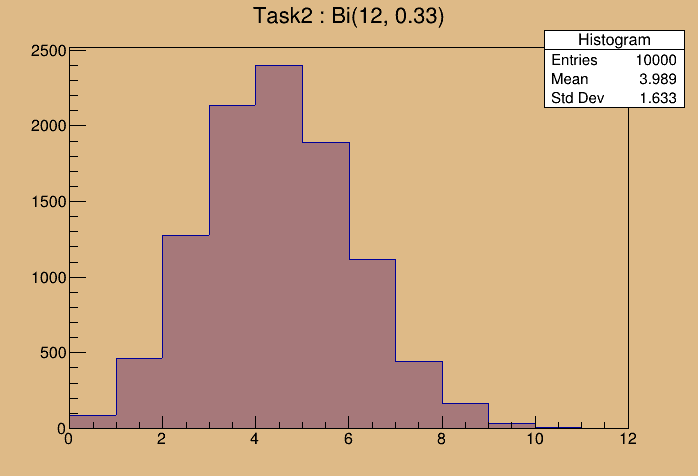
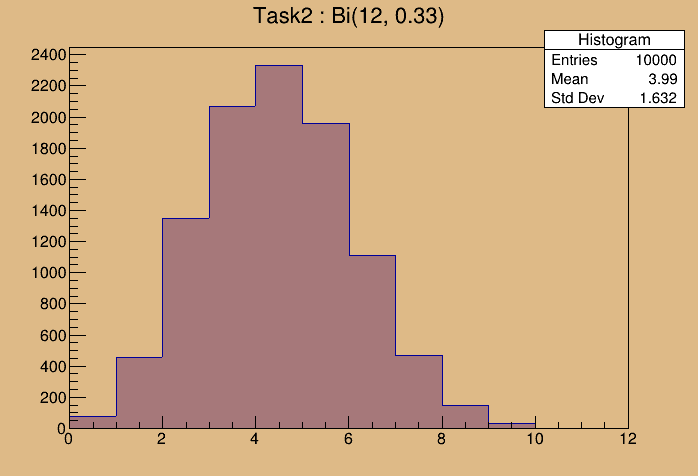
Add hw6(Tasks 3,5,6)

diff --git a/main.py b/main.py
@@ -1,42 +1,59 @@
 """Отвечает за запуск примеров заданий."""
 from sys import argv
 
-from hw5 import Task1, Task2, Task3, Task4, Task5, Task7, Task8
+import hw5
+import hw6
 
 if argv[1] == '5':
     if argv[2] == '1':
         if argv[3] == 'a':
-            Task1('Task1 (A): g=5^17, M=2^42, m=1', 100, 0, 1,
-                  g=5**17, M=2**42, m=1)
+            hw5.Task1('Task1 (A): g=5^17, M=2^42, m=1', 100, 0, 1,
+                      g=5**17, M=2**42, m=1)
         elif argv[3] == 'b':
-            Task1('Task1 (B): g=13, M=17, m=3', 100, 0, 1,
-                  g=13, M=17, m=3)
+            hw5.Task1('Task1 (B): g=13, M=17, m=3', 100, 0, 1,
+                      g=13, M=17, m=3)
     elif argv[2] == '2':
-        Task2('Task2 : Bi(12, 0.33)', 12, 0, 12,
-              n=12, p=1/3)
+        hw5.Task2('Task2 : Bi(12, 0.33)', 12, 0, 12,
+                  n=12, p=1/3)
     elif argv[2] == '3':
-        Task3('Task3 : Pascal(10, 0.1)', 190, 10, 200,
-              n=10, p=0.1)
+        hw5.Task3('Task3 : Pascal(10, 0.1)', 190, 10, 200,
+                  n=10, p=0.1)
     elif argv[2] == '4':
-        Task4('Task4 : Poisson(5, 0.1)', 20, 0, 20,
-              n=5, p=0.1)
+        hw5.Task4('Task4 : Poisson(5, 0.1)', 20, 0, 20,
+                  n=5, p=0.1)
     elif argv[2] == '5':
         if argv[3] == 'a':
-            Task5('Task5 (A): [M*gamma]', 100, 0, 10**6,
-                  M=10**6, intpart=True)
+            hw5.Task5('Task5 (A): [M*gamma]', 100, 0, 10**6,
+                      M=10**6, intpart=True)
         elif argv[3] == 'b':
-            Task5('Task5 (B): {M*gamma}', 100, 0, 1,
-                  M=10**6, intpart=False)
+            hw5.Task5('Task5 (B): {M*gamma}', 100, 0, 1,
+                      M=10**6, intpart=False)
     elif argv[2] == '7':
-        Task7('Task7 : Bi(50, 0.33)', 25, 5, 30,
-              n=50, p=1/3)
+        hw5.Task7('Task7 : Bi(50, 0.33)', 25, 5, 30,
+                  n=50, p=1/3)
     elif argv[2] == '8':
         if argv[3] == 'a':
-            Task8('Task8 (A): Poisson(lambda=10)', 25, 0, 25,
-                  lmbd=10)
+            hw5.Task8('Task8 (A): Poisson(lambda=10)', 25, 0, 25,
+                      lmbd=10)
         elif argv[3] == 'b':
-            Task8('Task8 (B): Poisson(lambda=20)', 30, 5, 35,
-                  lmbd=20)
+            hw5.Task8('Task8 (B): Poisson(lambda=20)', 30, 5, 35,
+                      lmbd=20)
         elif argv[3] == 'c':
-            Task8('Task8 (C): Poisson(lambda=100)', 100, 50, 150,
-                  lmbd=100)
+            hw5.Task8('Task8 (C): Poisson(lambda=100)', 100, 50, 150,
+                      lmbd=100)
+elif argv[1] == '6':
+    if argv[2] == '1':
+        pass
+    elif argv[2] == '3':
+        if argv[3] == 'a':
+            hw6.Task3('Task3 (A): HG(g=0)', 200, -1, 1, g=0)
+        elif argv[3] == 'b':
+            hw6.Task3('Task3 (B): HG(g=0.5)', 200, -1, 1, g=0.5)
+        elif argv[3] == 'c':
+            hw6.Task3('Task3 (C): HG(g=0.99)', 200, -1, 1, g=0.99)
+    elif argv[2] == '5':
+        hw6.Task5('Task5 : f(x) = a + b*x, a=1.5, b=-1', 100, 0, 1,
+                  a=1.5, b=-1)
+    elif argv[2] == '6':
+        hw6.Task6('Task6 : f(x in (0,1)) = x, f(x in (1, 2)) = 2^(-x)',
+                  200, 0, 2)

diff --git a/mixins.py b/mixins.py
@@ -1,14 +1,16 @@
 """Миксины для классов Tasks."""
-import time
+from array import array
+from time import sleep
 
+import numpy as np
 import ROOT
 
 
-class Basic:
+class BasicHist:
     """Класс для создания гистограмм."""
 
-    ENTRIES = 10000
-    HW_NUM = 5
+    ENTRIES = 100000
+    HW_NUM = 0
 
     def __init__(self, name, *histargs, **solargs):
         """Создаются экземпляры Canvas и Histogram, сохраняется гистограмма."""
@@ -28,4 +30,63 @@ class Basic:
         canvas.Update()
         canvas.Print(f'./img/hw{self.HW_NUM}/{name}.png')
 
-        time.sleep(4)
+        sleep(4)
+
+
+class BasicGraphErrors:
+    """Базовый класс для отрисовки графика."""
+
+    def __init__(self, name, points, errors):
+        """Конструктор."""
+        self.points = np.array(points)
+        self.errors = np.array(errors)
+
+        self.canvas = ROOT.TCanvas('c1', 'Graph', 200, 10, 700, 500)
+        self.canvas.SetGrid()
+        self.canvas.SetBorderSize(12)
+        self.canvas.SetFillColor(42)
+
+        self.graph = ROOT.TGraphErrors(
+            3,
+            array('f', self.points[:, 0]),
+            array('f', self.points[:, 1]),
+            array('f', self.errors[:, 0]),
+            array('f', self.errors[:, 1])
+        )
+        self.graph.SetTitle('Linear graph: Y(X) = p1*X + p0')
+        self.graph.SetLineColor(2)
+        self.graph.SetLineWidth(2)
+        self.graph.SetMarkerColor(2)
+        self.graph.SetMarkerStyle(21)
+        self.graph.GetXaxis().SetTitle('X title')
+        self.graph.GetYaxis().SetTitle('Y title')
+
+        self.graph_text = ROOT.TPaveText(0.67, 0.6, 0.87, 0.45, "NDC")
+        self.graph_text.SetTextAlign(12)
+        self.graph_text.SetFillColor(43)
+        self.graph_text.AddText(' RED: Fit(pol1, L)')
+
+        self.function = ROOT.TF1('fun1', '[0]*x+[1]', -100, 100)
+        self.function.SetLineColor(4)
+        self.function.SetLineWidth(2)
+
+        self.function_text = ROOT.TPaveText(0.15, 0.6, 0.28, 0.5, "NDC")
+        self.function_text.SetTextAlign(12)
+        self.function_text.SetFillColor(43)
+        self.function_text.AddText('BLUE: scipy')
+
+        self()
+
+        self.graph.Draw('AP')
+        self.graph_text.Draw('same')
+        self.function.Draw('same')
+        self.function_text.Draw('same')
+
+        self.canvas.Update()
+        self.canvas.GetFrame().SetFillColor(0)
+        self.canvas.GetFrame().SetBorderSize(12)
+        self.canvas.Modified()
+        self.canvas.Update()
+        self.canvas.Print(f'./img/hw_awg/Task1_{name}.png')
+
+        sleep(4)

diff --git a/hw_avg.py b/hw_avg.py
@@ -2,72 +2,11 @@
 
 Курс 'Методы обработки экспериментальных данных в физике частиц'.
 """
-
-from array import array
-from time import sleep
-
 import numpy as np
-from ROOT import TF1, TCanvas, TGraphErrors, TPaveText, TRandom3
+from ROOT import TRandom3
 from scipy.optimize import minimize
 
-
-class BasicGraphErrors:
-    """Базовый класс для отрисовки графика."""
-
-    def __init__(self, name, points, errors):
-        """Конструктор."""
-        self.points = np.array(points)
-        self.errors = np.array(errors)
-
-        self.canvas = TCanvas('c1', 'Graph', 200, 10, 700, 500)
-        self.canvas.SetGrid()
-        self.canvas.SetBorderSize(12)
-        self.canvas.SetFillColor(42)
-
-        self.graph = TGraphErrors(
-            3,
-            array('f', self.points[:, 0]),
-            array('f', self.points[:, 1]),
-            array('f', self.errors[:, 0]),
-            array('f', self.errors[:, 1])
-        )
-        self.graph.SetTitle('Linear graph: Y(X) = p1*X + p0')
-        self.graph.SetLineColor(2)
-        self.graph.SetLineWidth(2)
-        self.graph.SetMarkerColor(2)
-        self.graph.SetMarkerStyle(21)
-        self.graph.GetXaxis().SetTitle('X title')
-        self.graph.GetYaxis().SetTitle('Y title')
-
-        self.graph_text = TPaveText(0.67, 0.6, 0.87, 0.45, "NDC")
-        self.graph_text.SetTextAlign(12)
-        self.graph_text.SetFillColor(43)
-        self.graph_text.AddText(' RED: Fit(pol1, L)')
-
-        self.function = TF1('fun1', '[0]*x+[1]', -100, 100)
-        self.function.SetLineColor(4)
-        self.function.SetLineWidth(2)
-
-        self.function_text = TPaveText(0.15, 0.6, 0.28, 0.5, "NDC")
-        self.function_text.SetTextAlign(12)
-        self.function_text.SetFillColor(43)
-        self.function_text.AddText('BLUE: scipy')
-
-        self()
-
-        self.graph.Draw('AP')
-        self.graph_text.Draw('same')
-        self.function.Draw('same')
-        self.function_text.Draw('same')
-
-        self.canvas.Update()
-        self.canvas.GetFrame().SetFillColor(0)
-        self.canvas.GetFrame().SetBorderSize(12)
-        self.canvas.Modified()
-        self.canvas.Update()
-        self.canvas.Print(f'./img/hw_awg/Task1_{name}.png')
-
-        sleep(5)
+from mixins import BasicGraphErrors
 
 
 class Task1(BasicGraphErrors):

diff --git a/hw6.py b/hw6.py
@@ -1,0 +1,61 @@
+"""Решения задач домашнего задания №6."""
+import ROOT
+import math
+
+from mixins import BasicHist
+
+BasicHist.HW_NUM = 6
+
+
+class Task1(BasicHist):
+    """Задача 1."""
+
+    def __call__(self):
+        """Решение."""
+        pass
+
+
+class Task3(BasicHist):
+    """Задача 3."""
+
+    def __call__(self, g):
+        """Решение."""
+        random = ROOT.TRandom3(seed=42).Rndm
+
+        for _ in range(super().ENTRIES):
+            num = (
+                2 * random() - 1 if g == 0 else
+                (1 + g ** 2 - ((1 - g ** 2)
+                               / (1 - g + 2 * g * random())) ** 2) / (2 * g)
+            )
+            self.histogram.Fill(num)
+
+
+class Task5(BasicHist):
+    """Задача 5."""
+
+    def __call__(self, a, b):
+        """Решение. f(x) = b*x + a."""
+        random = ROOT.TRandom3(seed=42).Rndm
+
+        for _ in range(super().ENTRIES):
+            num = (-a + math.sqrt(a ** 2 + 2 * b * random())) / b
+            self.histogram.Fill(num)
+
+
+class Task6(BasicHist):
+    """Задача 6."""
+
+    def __call__(self):
+        """Решение."""
+        random = ROOT.TRandom3(seed=42).Rndm
+        p_1 = 2 * math.log(2) / math.log(4 * math.exp(1))
+
+        for _ in range(super().ENTRIES):
+            q = random()
+            num = (
+                math.sqrt(q / p_1) if q <= p_1 else
+                (2 - math.log(2 * (1 + math.log(2))
+                              - math.log(4 * math.exp(1)) * q) / math.log(2))
+            )
+            self.histogram.Fill(num)

diff --git a/hw5.py b/hw5.py
@@ -2,10 +2,12 @@
 from math import exp, factorial, modf, sqrt
 from random import gauss, random
 
-from mixins import Basic
+from mixins import BasicHist
+
+BasicHist.HW_NUM = 5
 
 
-class Task1(Basic):
+class Task1(BasicHist):
     """Задание 1."""
 
     def __call__(self, g, M, m):
@@ -16,7 +18,7 @@ class Task1(Basic):
             self.histogram.Fill(num)
 
 
-class Task2(Basic):
+class Task2(BasicHist):
     """Задание 2."""
 
     def __call__(self, n, p):
@@ -42,7 +44,7 @@ class Task2(Basic):
         )
 
 
-class Task3(Basic):
+class Task3(BasicHist):
     """Задание 3."""
 
     def __call__(self, n, p):
@@ -68,7 +70,7 @@ class Task3(Basic):
         )
 
 
-class Task4(Basic):
+class Task4(BasicHist):
     """Задание 4."""
 
     def __call__(self, n, p):
@@ -91,7 +93,7 @@ class Task4(Basic):
         return (n ** m) / factorial(m) * exp(-n)
 
 
-class Task5(Basic):
+class Task5(BasicHist):
     """Задание 5."""
 
     def __call__(self, M, intpart=True):
@@ -111,7 +113,7 @@ class Task5(Basic):
         print(f'cor = {cov * 12 / M}')
 
 
-class Task7(Basic):
+class Task7(BasicHist):
     """Задание 7."""
 
     def __call__(self, n, p):
@@ -122,7 +124,7 @@ class Task7(Basic):
             self.histogram.Fill(intpart)
 
 
-class Task8(Basic):
+class Task8(BasicHist):
     """Задание 8."""
 
     def __call__(self, lmbd):

diff --git a/README.md b/README.md
@@ -53,3 +53,6 @@
 ![Image alt](https://github.com/shulga-alexey/monte-carlo/blob/main/img/hw5/Task8%20(B)%3A%20Poisson(lambda%3D20).png)
 
 ![Image alt](https://github.com/shulga-alexey/monte-carlo/blob/main/img/hw5/Task8%20(C)%3A%20Poisson(lambda%3D100).png)
+
+
+## ДЗ№6 (задачи 1-8): файл hw6.py
